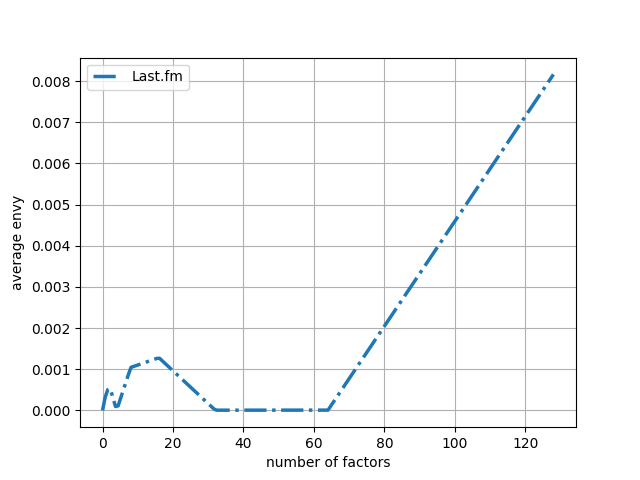
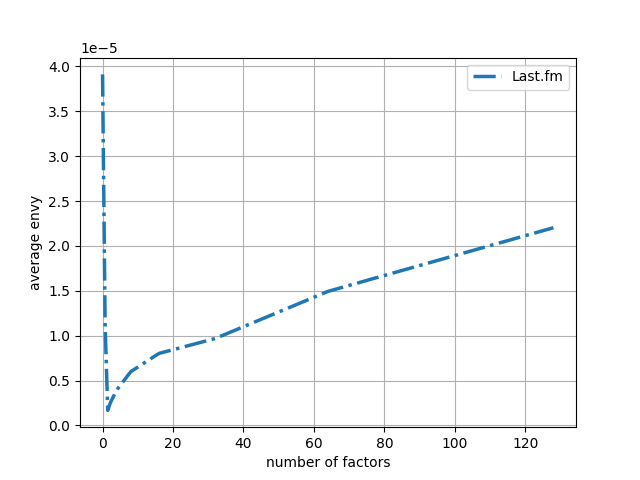
FunkySVD with drop but probably should not do that

diff --git a/vN/src/lib/recommender.py b/vN/src/lib/recommender.py
@@ -25,24 +25,26 @@ from lib import istarmap
 from lib import helper
 import constant
 
-def train_SVD_model(hyperparameter_configurations, batch, train, validation, test, min_rating=1, max_rating=5, normalize=True):
+def train_SVD_model(hyperparameter_configurations, batch, train, validation, test, min_rating, max_rating, normalize=True):
     results = {}
     
     print("Processing batch {}...SVD".format((batch + 1)))
     K = constant.PERFORMANCE_METRIC_VARS["recommender system"]["svd"][constant.PERFORMANCE_METRIC_SVD]["K"]
     
-    # Normalize between range [1, 5] for Funky SVD to work
-    if normalize == True:
-        min_value = min(min(train["rating"].min(), validation["rating"].min()), test["rating"].min()) 
-        max_value = max(max(train["rating"].max(), validation["rating"].max()), test["rating"].max())
+    # # Normalize between range [1, 5] for Funky SVD to work
+    # if normalize == True:
+    #     min_value = min(min(train["rating"].min(), validation["rating"].min()), test["rating"].min()) 
+    #     max_value = max(max(train["rating"].max(), validation["rating"].max()), test["rating"].max())
 
-        train["rating"] = min_rating + (((train["rating"]  - min_value) * (max_rating - min_rating)) / (max_value - min_value))
-        validation["rating"] = min_rating + (((validation["rating"]  - min_value) * (max_rating - min_rating)) / (max_value - min_value))
-        test["rating"] = min_rating + (((test["rating"]  - min_value) * (max_rating - min_rating)) / (max_value - min_value))
+    #     train["rating"] = min_rating + (((train["rating"]  - min_value) * (max_rating - min_rating)) / (max_value - min_value))
+    #     validation["rating"] = min_rating + (((validation["rating"]  - min_value) * (max_rating - min_rating)) / (max_value - min_value))
+    #     test["rating"] = min_rating + (((test["rating"]  - min_value) * (max_rating - min_rating)) / (max_value - min_value))
     
-    num_entries, _ = test.shape
-    num_items = len(test["i_id"].unique())
-   
+    test = test.sort_values(by=["u_id"], ascending=True)
+    test["rating_count"] = np.full(len(test), 1)
+    test_rating_count = helper.merge_duplicates(test, "u_id", "rating_count")
+    rating_count_per_user = np.array(test_rating_count["rating_count"])
+
     # Train low-rank matrix completion algorithm (Bell and Sejnowski 1995) using SVD
     for i, params in enumerate(hyperparameter_configurations):
         svd = SVD(lr=0.001, reg=params["reg"], n_epochs=100, n_factors=params["latent_factor"], early_stopping=True, shuffle=False, min_rating=min_rating, max_rating=max_rating)
@@ -50,23 +52,28 @@ def train_SVD_model(hyperparameter_configurations, batch, train, validation, tes
         svd.fit(X=train, X_val=validation)
         pred = svd.predict(test)
 
-        test["pred"] = pred
- 
-        num_users = num_entries / num_items
-        shape = (int(num_users), int(num_items))
+        y_true = np.array(test["rating"])
+        y_pred = np.array(pred)
+    
+        y_true_per_user = np.split(y_true, np.cumsum(rating_count_per_user))
+        y_pred_per_user = np.split(y_pred, np.cumsum(rating_count_per_user))
 
-        y_true = np.reshape(np.array(test["rating"]), shape)
-        y_score = np.reshape(np.array(test["pred"]), shape)
-            
-        print(y_true)
-        print(y_score)
+        # Last element of split function is empty list so remove
+        y_pred_per_user.pop()
+        y_true_per_user.pop()
+        
+        ndcg = np.array([])
 
-        # exit()
+        for (y1, y2) in zip(y_true_per_user, y_pred_per_user):
+            if constant.PERFORMANCE_METRIC_SVD == "ndcg":
+                ndcg = np.append(ndcg, ndcg_score(np.asarray([y1]), np.asarray([y2]), k=K))
+                # ndcg = ndcg_score(np.asarray([y1]), np.asarray([y2]), k=K)
+            else:
+                ndcg = np.append(ndcg, dcg_score(np.asarray([y1]), np.asarray([y2]), k=K))
+                # ndcg = dcg_score(np.asarray([y1]), np.asarray([y2]), k=K)
+        
+        ndcg = np.mean(ndcg)
 
-        if constant.PERFORMANCE_METRIC_SVD == "ndcg":
-            ndcg = ndcg_score(np.asarray(y_true), np.asarray(y_score), k=K)
-        else:
-            ndcg = dcg_score(np.asarray(y_true), np.asarray(y_score), k=K)
         results[i] = {"latent_factor": params["latent_factor"], "result": {"ndcg": ndcg, "model": svd, "params": params}} 
         
         print("Batch {}: {}@{} {}".format((batch + 1), constant.PERFORMANCE_METRIC_SVD, K, ndcg))
@@ -124,7 +131,10 @@ def create_recommendation_est_system(ground_truth, hyperparameter_configurations
                                     for each model
     """
     R_coo = sparse.coo_matrix(ground_truth)
-    
+    R_min, R_max = R_coo.min(), R_coo.max()
+    print(R_min, R_max)
+    # exit()
+
     # Create keys from <latent_factors>
     df_hp = pd.DataFrame.from_dict(hyperparameter_configurations)
     keys = np.array(df_hp.loc["latent_factor"].drop_duplicates())
@@ -143,7 +153,7 @@ def create_recommendation_est_system(ground_truth, hyperparameter_configurations
 
         # Create whole user-item data frame
         df = pd.DataFrame({"u_id": u_id, "i_id": i_id, "rating": values})
-   
+ 
         # Create data splits
         train = df.sample(frac=split["train"])
         validation_size = split["validation"] / (1 - split["train"])
@@ -153,6 +163,16 @@ def create_recommendation_est_system(ground_truth, hyperparameter_configurations
         print(train.shape)
         print(validation.shape)
         print(test.shape)
+        
+        # Drop such that we compute latent factors only using the values we know
+        train = train.drop(train[train.rating < 0].index)
+        validation = validation.drop(validation[validation.rating < 0].index)
+        test = test.drop(test[test.rating < 0].index)
+        
+        # # Set to zero such that we compute latent factors only using the values we know
+        # train["rating"].mask(train["rating"] < 0 , 0, inplace=True)
+        # validation["rating"].mask(validation["rating"] < 0 , 0, inplace=True)
+        # test["rating"].mask(test["rating"] < 0 , 0, inplace=True)
 
         # Multiprocessing: assign a batch of models to a processor
         if multiprocessing:
@@ -163,7 +183,7 @@ def create_recommendation_est_system(ground_truth, hyperparameter_configurations
             # Create and configure the process pool
             with mp.Pool(mp.cpu_count()) as pool:
                 # Prepare arguments
-                items = [(batch, i, train, validation, test) for i, batch in configurations_batches.items()]
+                items = [(batch, i, train, validation, test, 0, R_max) for i, batch in configurations_batches.items()]
                 # Execute tasks and process results in order
                 for result in pool.starmap(train_SVD_model, items):
                     print(f'GOT RESULT: {result}', flush=True)
@@ -250,11 +270,10 @@ def recommendation_estimation(recommendation_est_system_model, ground_truth, alg
     
     if algorithm == "svd":
         row, col = ground_truth.shape
-        values = ground_truth.flatten()
         u_id = np.repeat(np.arange(0, row), col)
         i_id = np.tile(np.arange(0, col), row)
         
-        df = pd.DataFrame({"u_id": u_id, "i_id": i_id, "rating": values})
+        df = pd.DataFrame({"u_id": u_id, "i_id": i_id})
         
         # Calculate estimated preference scores
         pred = recommendation_est_system_model.predict(df)

diff --git a/vN/src/main.py b/vN/src/main.py
@@ -23,35 +23,6 @@ def preferences_to_policies(latent_factor, model, ground_truth, algorithm):
     return {"latent_factor": latent_factor, "recommendation_policies": {"preferences": preference_estimates, "recommendations": recommendation_policies["recommendations"], "policies": recommendation_policies["policies"]}}
 
 if __name__ == "__main__":
-    
-    # true_relevance = np.asarray([[10, 0, 0, 1, 5]])
-    # # we predict scores for the answers
-    # scores = np.asarray([[.1, .2, .3, 4, 70]])
-    # print(dcg_score(true_relevance, scores))
-    # exit()
-
-    # df = fetch_ml_ratings(variant='100k')
-    # print(df)
-    # train = df.sample(frac=0.8, random_state=7)
-    # val = df.drop(train.index.tolist()).sample(frac=0.5, random_state=8)
-    # test = df.drop(train.index.tolist()).drop(val.index.tolist())
-
-    # svd = SVD(lr=0.001, reg=0.005, n_epochs=100, n_factors=15,
-    #           early_stopping=True, shuffle=False, min_rating=1, max_rating=5)
-
-    # svd.fit(X=train, X_val=val)
-
-    # pred = svd.predict(test)
-    # mae = mean_absolute_error(test['rating'], pred)
-
-    # print(test)
-    # # print(test.index.tolist())
-    # # print(test.shape)
-    # # users = test["u_id"].unique()
-    # # items = test["i_id"].unique()
-    # print(len(pred))
-    
-    # exit()
     # To save the experiment results
     experiment_results = {k: {} for k in constant.EXPERIMENT_RUN_OPTIONS.keys() if k not in {"all"}}
 
